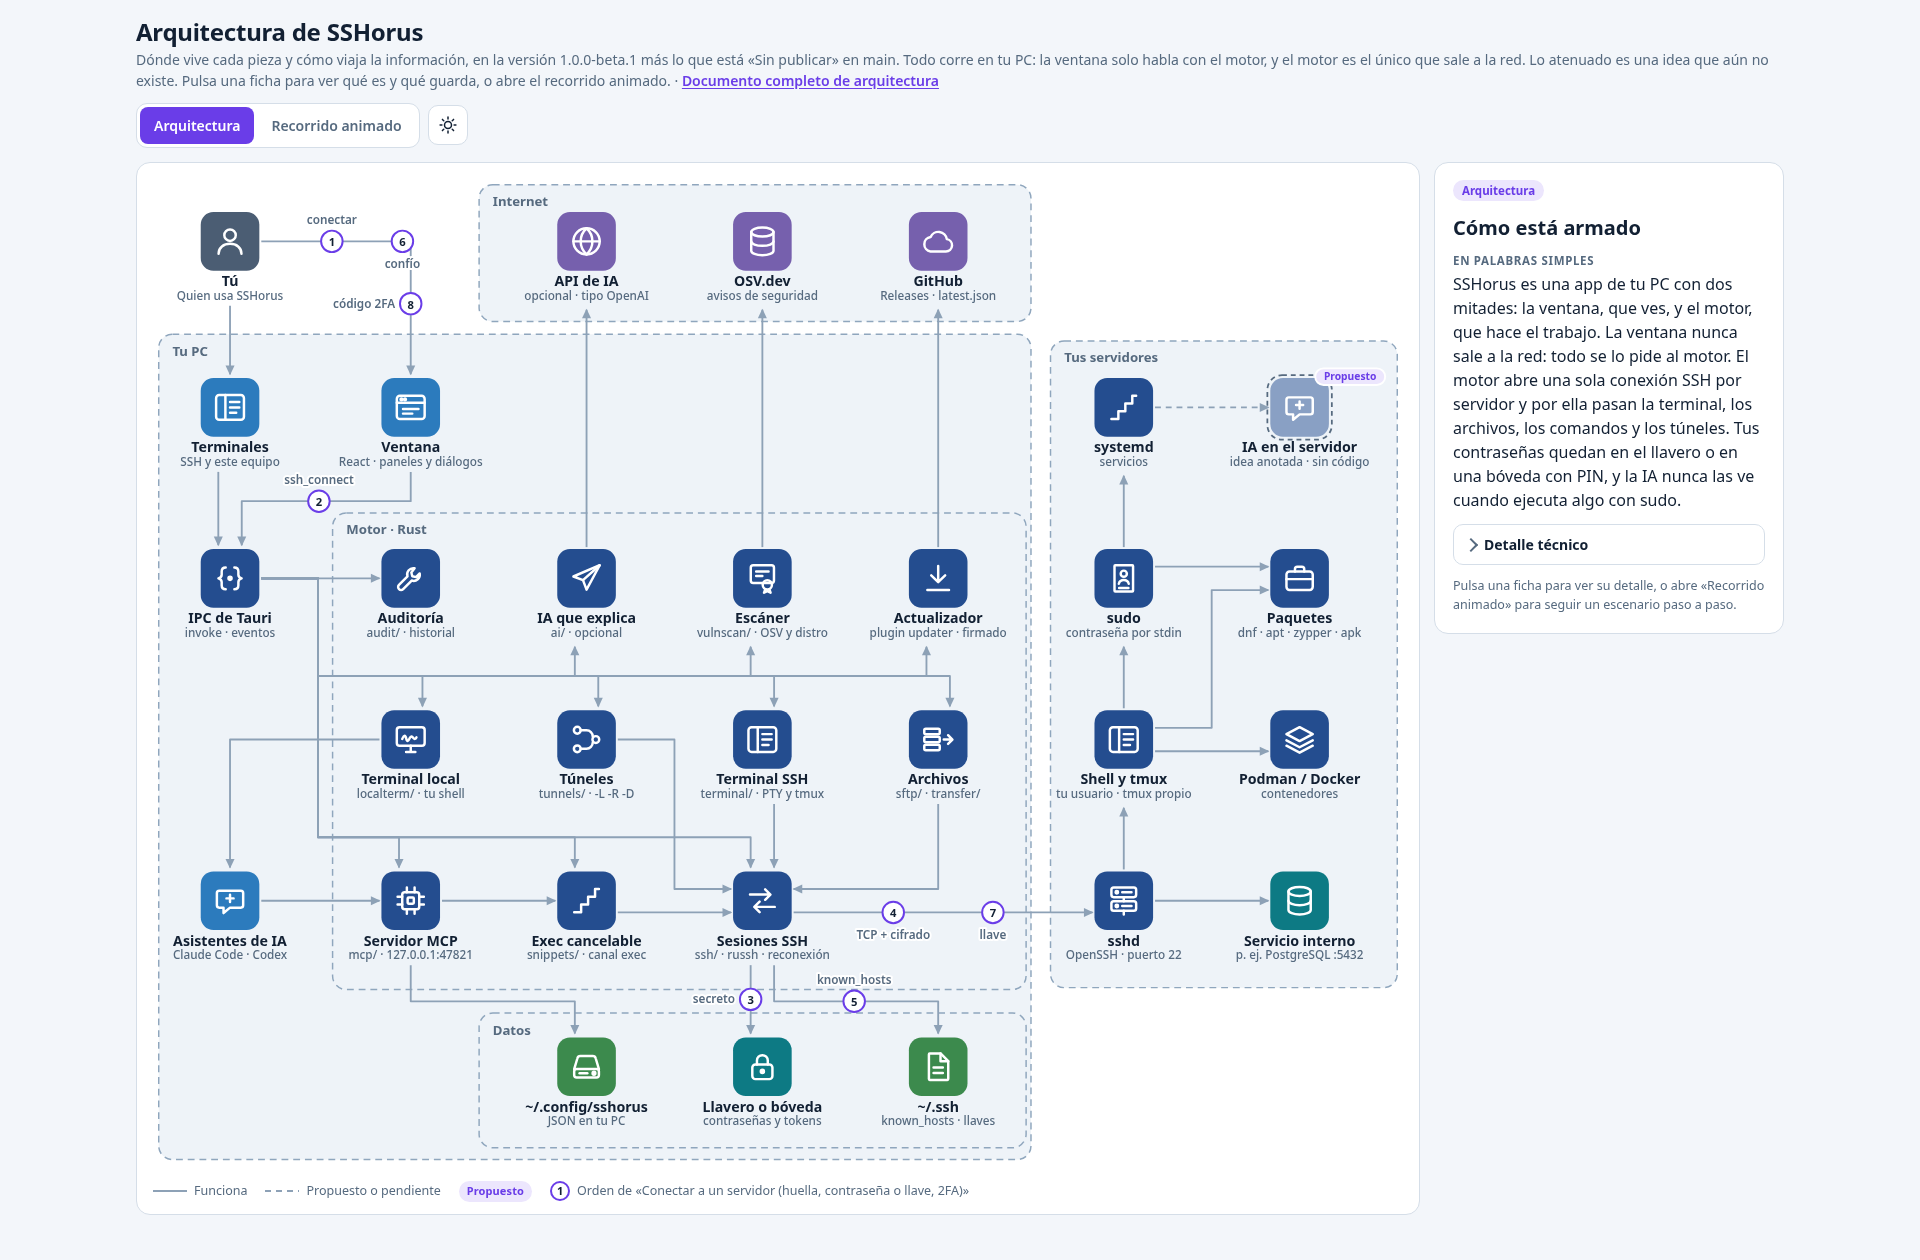
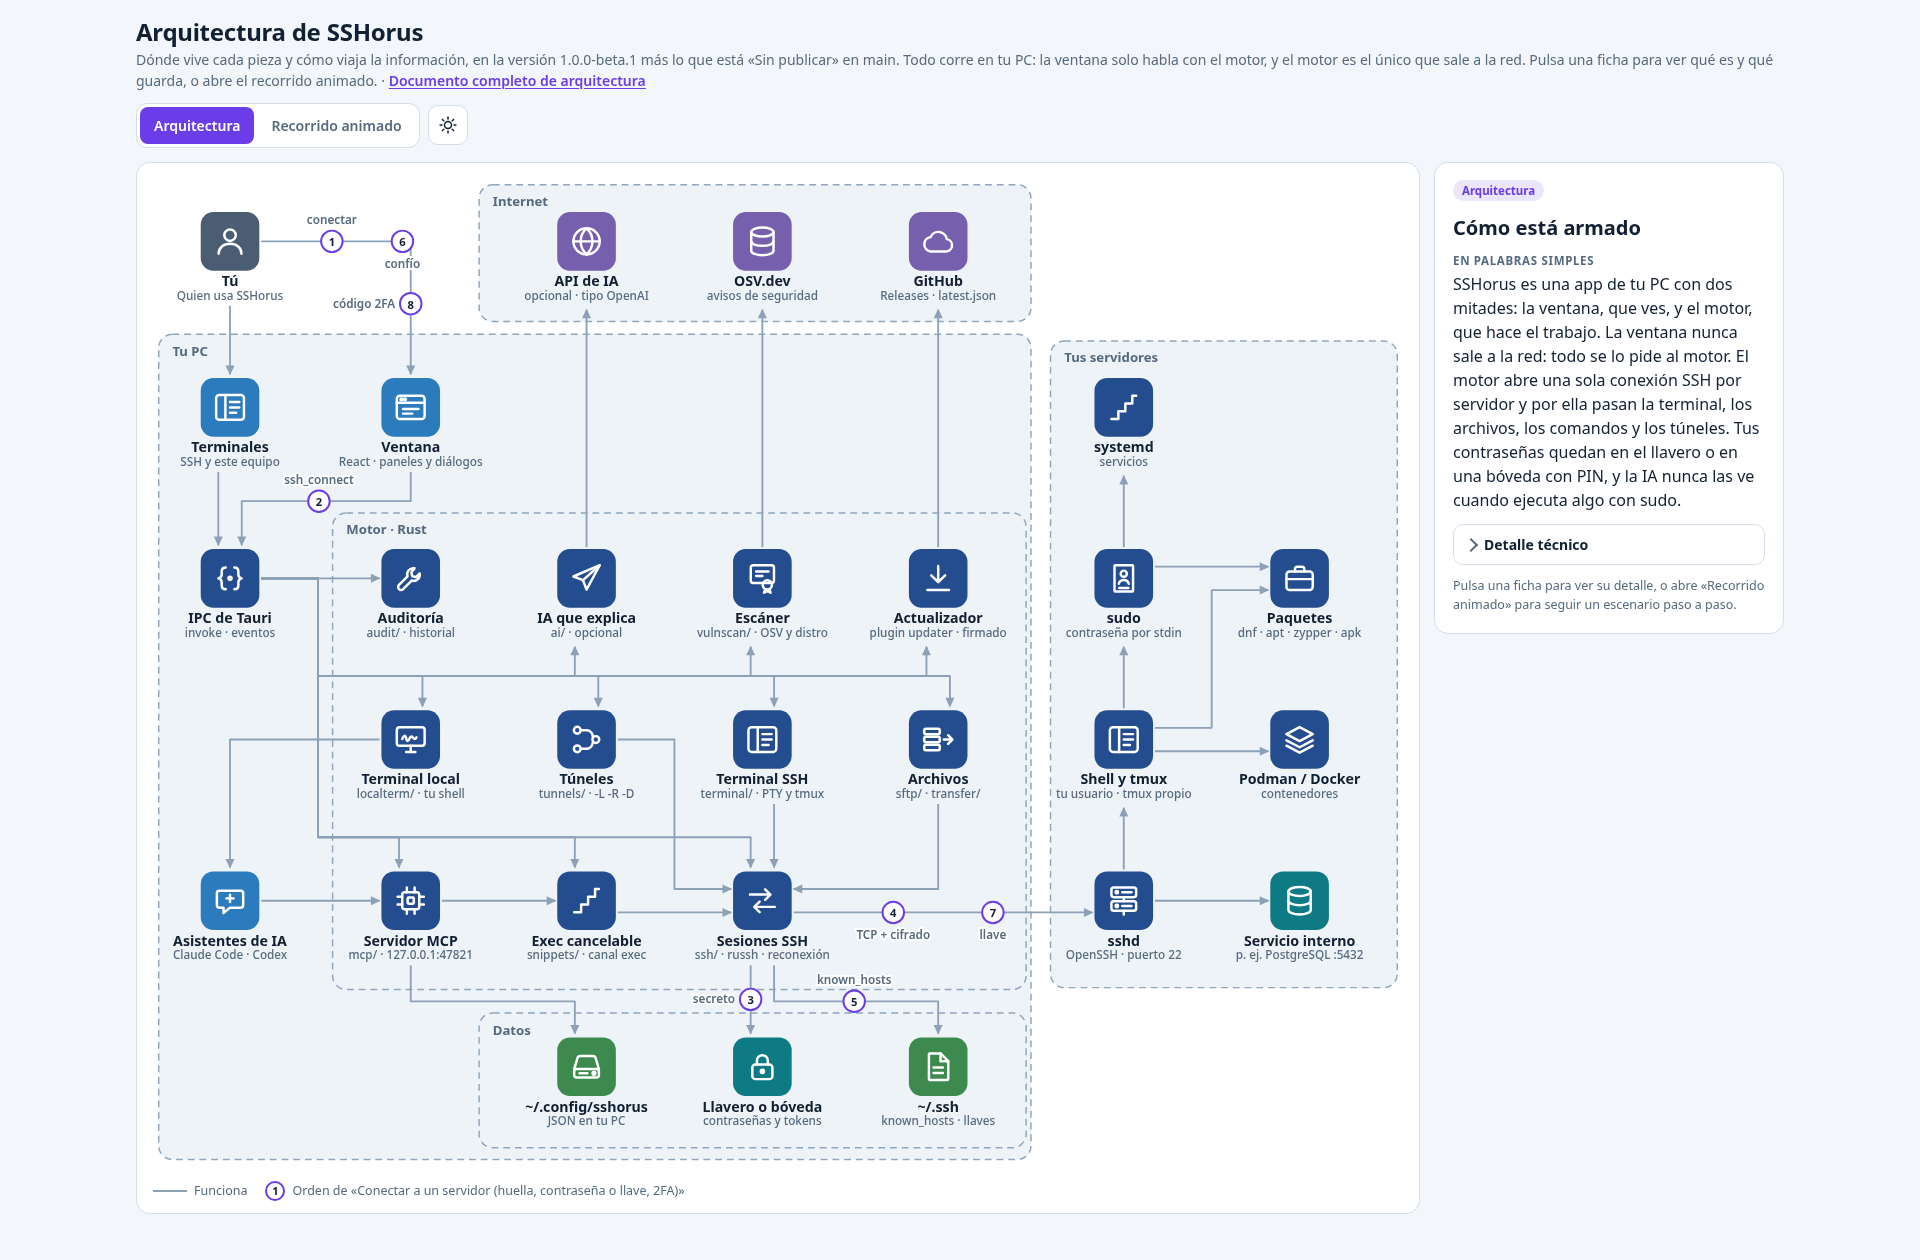
Diagrama de arquitectura: sin la IA en el servidor (descartada)

diff --git a/docs/diagrama-arquitectura.html b/docs/diagrama-arquitectura.html
@@ -282,14 +282,14 @@ details.det[open] summary::before{transform:rotate(45deg)}
 <script id="spec" type="application/json">
 {
  "titulo": "Arquitectura de SSHorus",
- "subtitulo": "Dónde vive cada pieza y cómo viaja la información, en la versión 1.0.0-beta.1 más lo que está «Sin publicar» en main. Todo corre en tu PC: la ventana solo habla con el motor, y el motor es el único que sale a la red. Lo atenuado es una idea que aún no existe. Pulsa una ficha para ver qué es y qué guarda, o abre el recorrido animado.",
+ "subtitulo": "Dónde vive cada pieza y cómo viaja la información, en la versión 1.0.0-beta.1 más lo que está «Sin publicar» en main. Todo corre en tu PC: la ventana solo habla con el motor, y el motor es el único que sale a la red. Pulsa una ficha para ver qué es y qué guarda, o abre el recorrido animado.",
  "enlaces": [
   {
    "texto": "Documento completo de arquitectura",
    "href": "ARQUITECTURA.md"
   }
  ],
- "descripcion": "Diagrama de la arquitectura de SSHorus. Arriba, tú e Internet (API de IA opcional, OSV.dev y GitHub). En tu PC: la ventana React con las terminales y los paneles, el puente IPC de Tauri, los asistentes de IA locales y el motor Rust con auditoría, IA que explica, escáner, actualizador, terminal local, túneles, terminal SSH, archivos, servidor MCP, exec cancelable y sesiones SSH; abajo, tus datos: ~/.config/sshorus, el llavero o la bóveda y ~/.ssh. A la derecha, tu servidor: sshd, shell con tmux, sudo, paquetes, Podman o Docker, systemd, un servicio interno y, atenuada, la idea de una IA en el servidor.",
+ "descripcion": "Diagrama de la arquitectura de SSHorus. Arriba, tú e Internet (API de IA opcional, OSV.dev y GitHub). En tu PC: la ventana React con las terminales y los paneles, el puente IPC de Tauri, los asistentes de IA locales y el motor Rust con auditoría, IA que explica, escáner, actualizador, terminal local, túneles, terminal SSH, archivos, servidor MCP, exec cancelable y sesiones SSH; abajo, tus datos: ~/.config/sshorus, el llavero o la bóveda y ~/.ssh. A la derecha, tu servidor: sshd, shell con tmux, sudo, paquetes, Podman o Docker, systemd y un servicio interno.",
  "lienzo": {
   "x": 0,
   "y": 0,
@@ -719,22 +719,6 @@ details.det[open] summary::before{transform:rotate(45deg)}
     "Las unidades de los servicios"
    ],
    "tech": "<p>Tras arreglar vulnerabilidades, <code>restart.ts<\/code> mira qué servicios siguen con la versión vieja y si hay que reiniciar el servidor (<code>needrestart<\/code> o <code>needs-restarting<\/code>, si la distro los tiene). La auditoría recarga sshd solo si <code>sshd -t<\/code> da bien; si no, recupera la configuración anterior.<\/p>"
-  },
-  "srvia": {
-   "x": 1180,
-   "y": 240,
-   "ic": "chat",
-   "k": "server",
-   "n": "IA en el servidor",
-   "tag": "idea anotada · sin código",
-   "simple": "Plan para más adelante: instalar Claude Code en el servidor, con un usuario aparte, para usarlo desde el celular. Todavía no existe.",
-   "guarda": [],
-   "tech": "<p>Anotado en <code>docs/PENDIENTES.md<\/code> («Próxima sesión», punto 5, «no programar aún»): un usuario aparte con sudo limitado, sesión oficial (nunca copiar <code>~/.claude<\/code>) y <code>claude remote-control<\/code> como servicio. Ojo: quien tenga root en el servidor podría usar la sesión.<\/p>",
-   "flag": [
-    "prop",
-    "Propuesto"
-   ],
-   "opt": true
   }
  },
  "flechas": {
@@ -1413,21 +1397,6 @@ details.det[open] summary::before{transform:rotate(45deg)}
      310
     ]
    ]
-  },
-  "sysd_srvia": {
-   "a": "sysd",
-   "b": "srvia",
-   "pts": [
-    [
-     1032,
-     240
-    ],
-    [
-     1148,
-     240
-    ]
-   ],
-   "opt": true
   }
  },
  "escenarioArquitectura": 0,
@@ -1440,8 +1409,7 @@ details.det[open] summary::before{transform:rotate(45deg)}
    "<b>Motor → servidor:<\/b> SSH 2 (russh), una conexión por pestaña con canales PTY, SFTP, exec y <code>direct-tcpip<\/code>.",
    "<b>Motor → Internet:<\/b> HTTPS con reqwest + rustls: OSV.dev (solo nombre y versión de paquetes), GitHub (actualizaciones firmadas) y la API de IA si la configuras.",
    "<b>IA local → motor:<\/b> MCP en <code>127.0.0.1:47821<\/code> con token, permisos por servidor y aprobación; sudo por stdin, sin que la IA vea la contraseña.",
-   "<b>Datos:<\/b> JSON en <code>~/.config/sshorus<\/code> (sin contraseñas), secretos en el llavero o en <code>vault.json<\/code> (AES-256-GCM + Argon2id) y <code>~/.ssh<\/code> de siempre.",
-   "<b>Propuesto:<\/b> IA en el servidor para usarla desde el celular (PENDIENTES, punto 5). La app móvil propia queda fuera del dibujo."
+   "<b>Datos:<\/b> JSON en <code>~/.config/sshorus<\/code> (sin contraseñas), secretos en el llavero o en <code>vault.json<\/code> (AES-256-GCM + Argon2id) y <code>~/.ssh<\/code> de siempre."
   ],
   "pista": "Pulsa una ficha para ver su detalle, o abre «Recorrido animado» para seguir un escenario paso a paso."
  },

diff --git a/docs/PENDIENTES.md b/docs/PENDIENTES.md
@@ -240,7 +240,7 @@ Riesgo: muchos pasos con sudo; usar «aceptar automáticamente» con duración y
   3. **APK propia** (punto 6): Tauri 2 compila para Android, así que se podría reutilizar parte del motor Rust y de
      la interfaz. Es un proyecto grande.
 
-**5. Plan (no programar aún): asistente en el servidor, para usarlo desde el celular.** Botón «Asistente en
+**5. ❌ Descartado por el usuario (16/11/2026): la IA va fuera del servidor (ver punto 6).** Texto original: **asistente en el servidor, para usarlo desde el celular.** Botón «Asistente en
 el servidor»: instalar Claude Code en el servidor con un **usuario aparte** (sudo solo para lo que se
 permita); sesión oficial (el enlace de `/login` o un token de `claude setup-token`, nunca copiar
 `~/.claude`); una carpeta con el contexto del servidor (sitios, logs para ver visitas, contenedores, cómo
